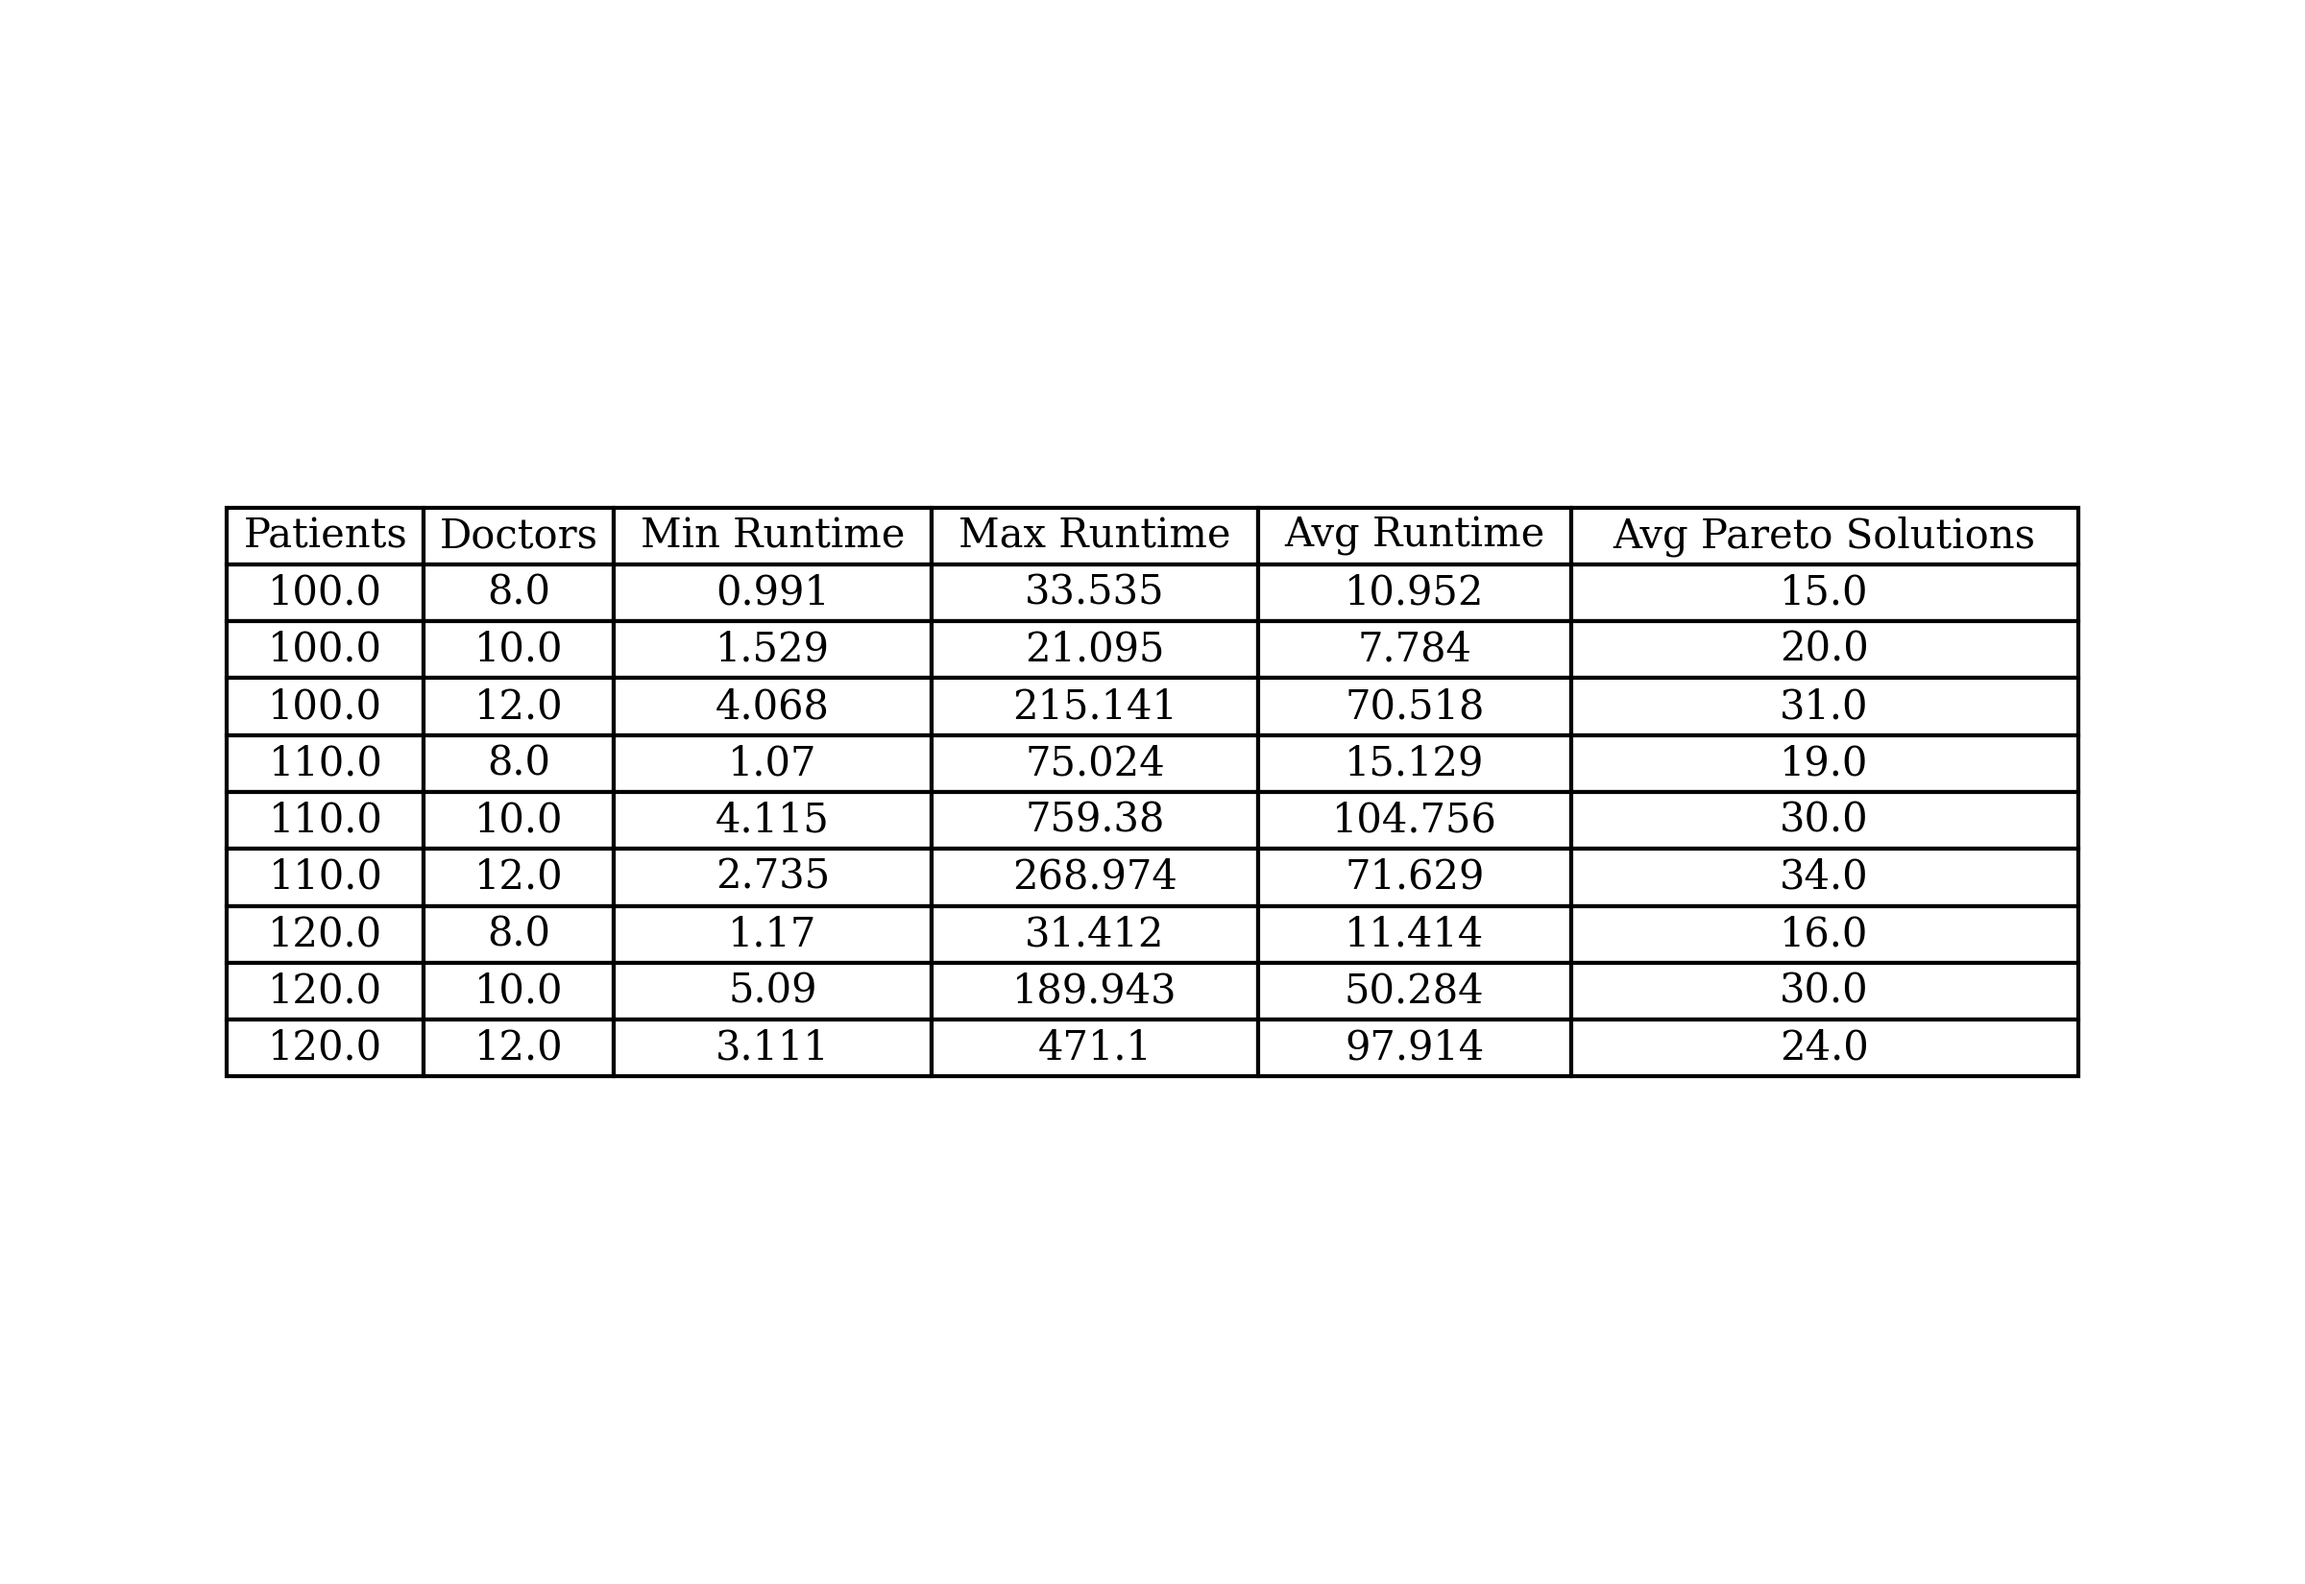
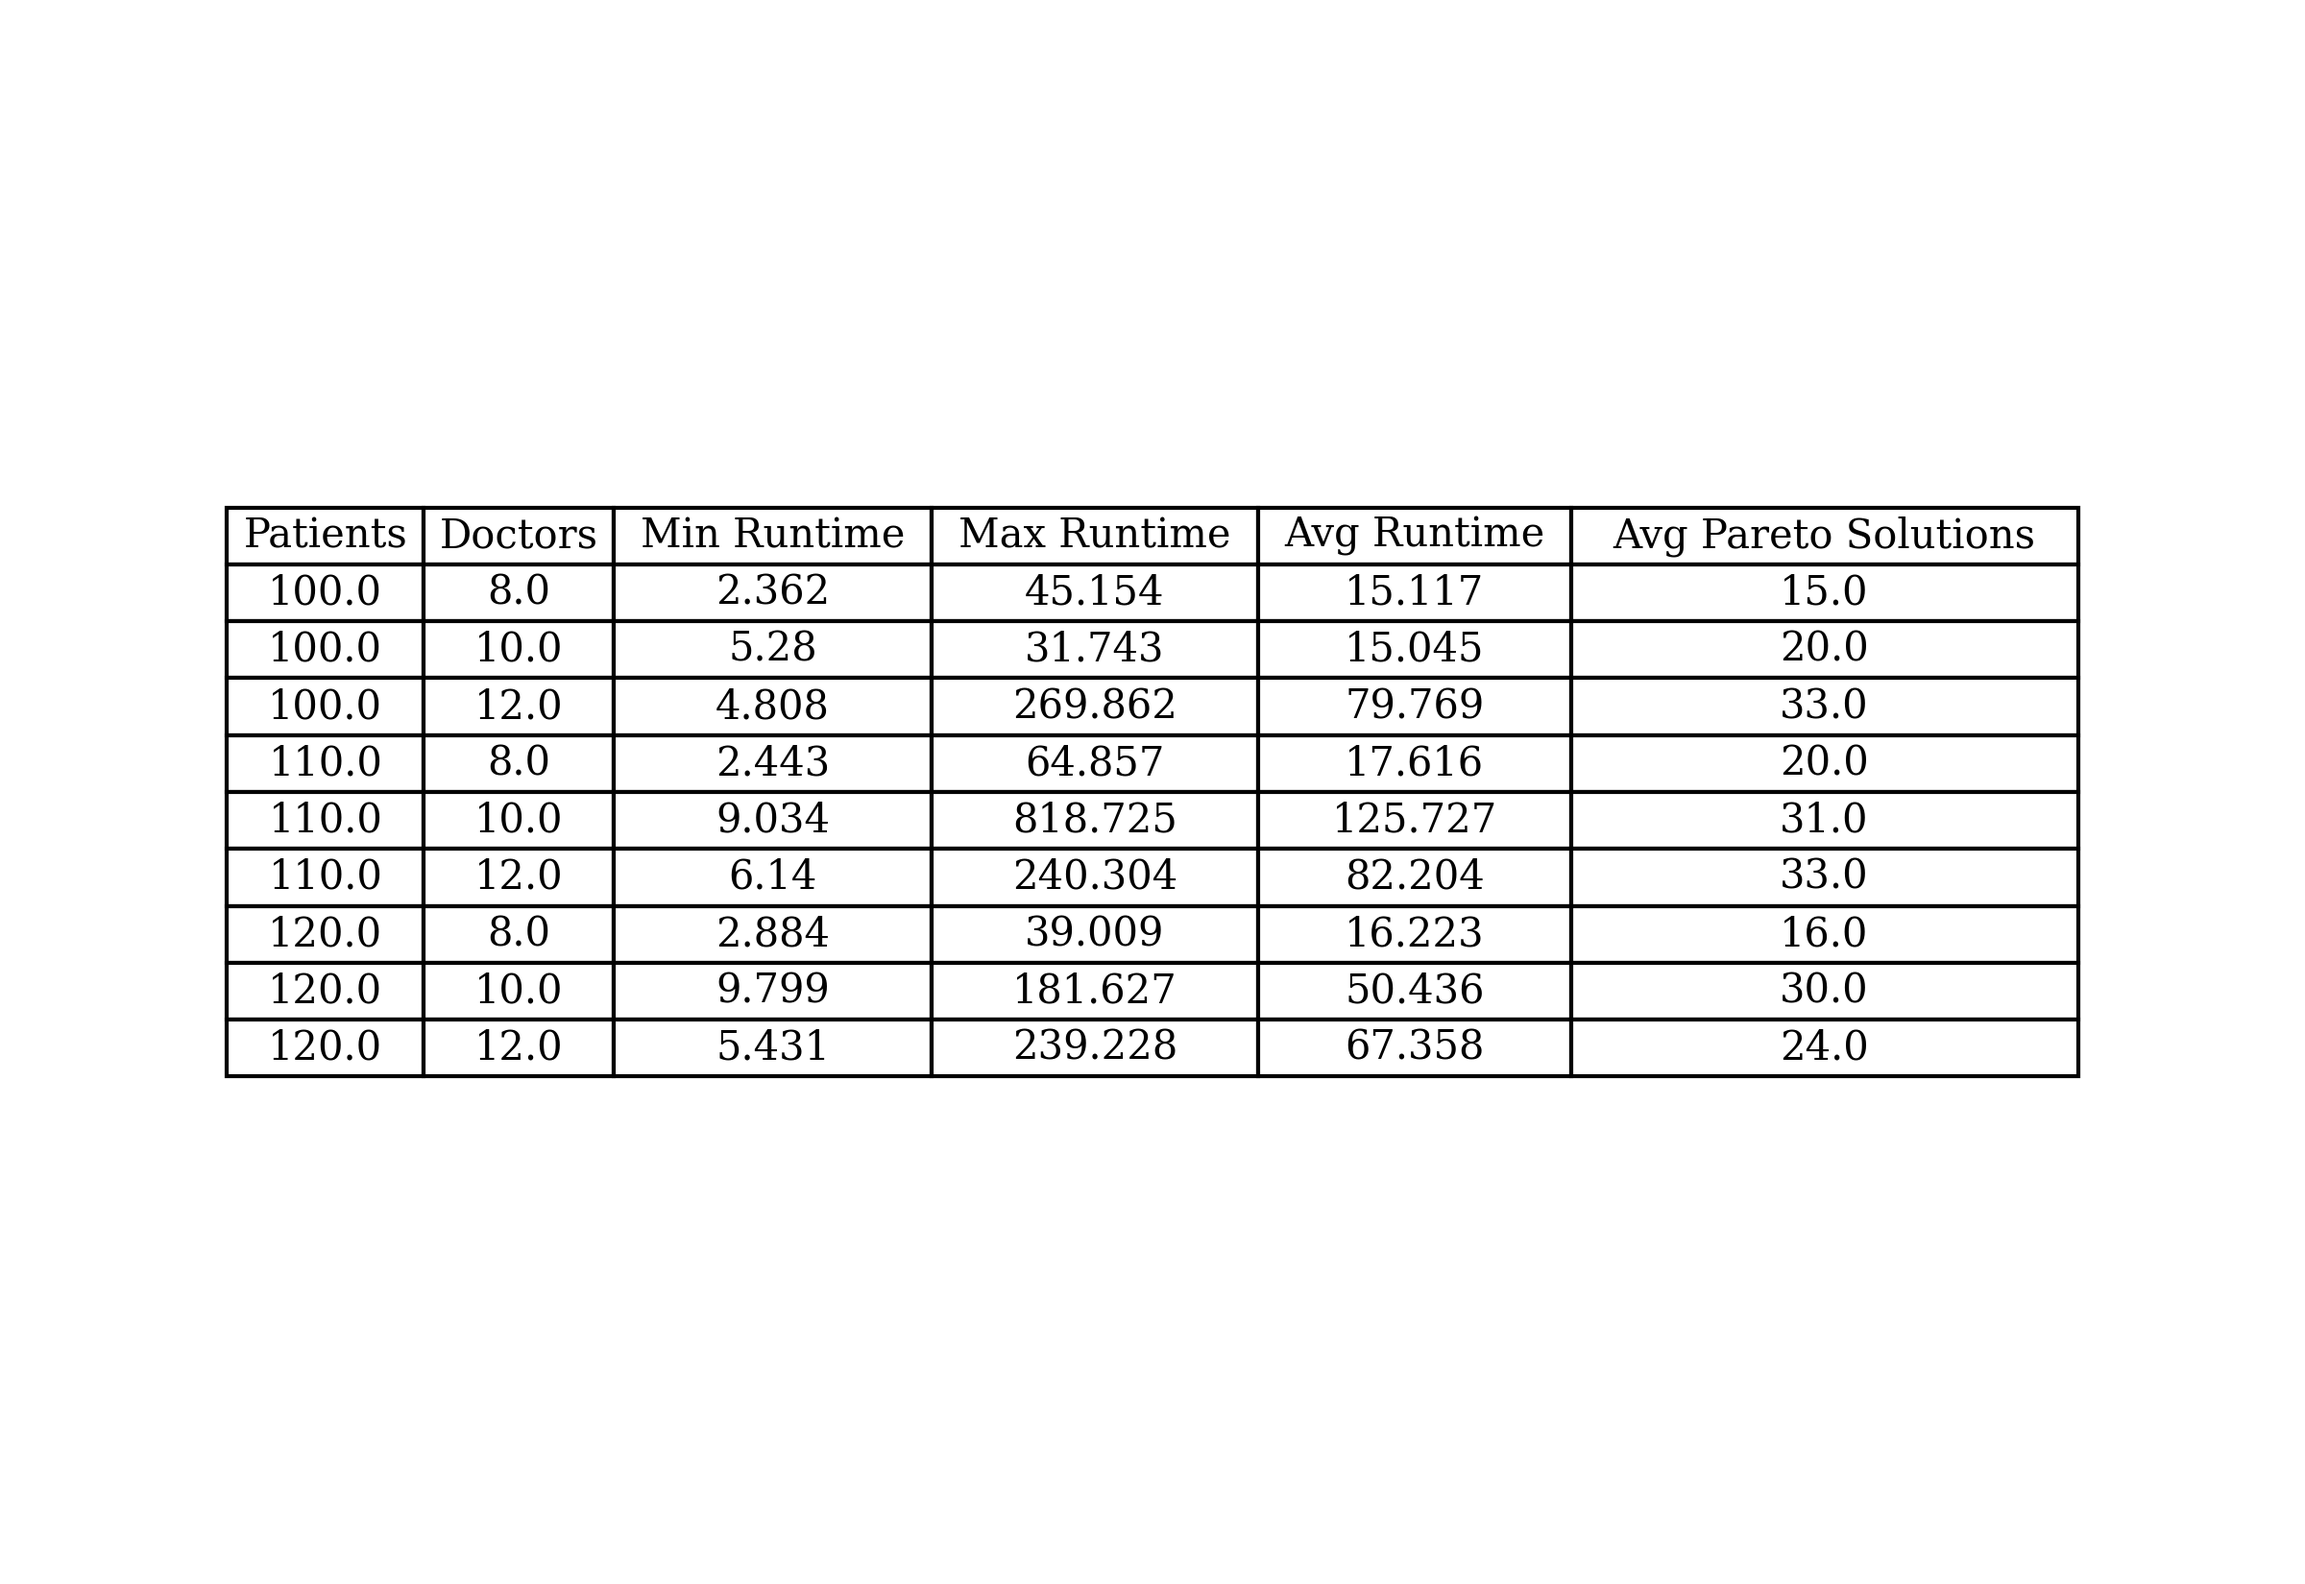
Add column gen for fragment time graphs and update epsilon runs image outputs to use all models

diff --git a/src/column_generation_test.py b/src/column_generation_test.py
@@ -4,11 +4,14 @@ import time
 from utils.data_instance import DataInstance
 import matplotlib.pyplot as plt
 import pickle
+import os
 
-i_s = [10, 20, 30,40,50,60,60,70,80,90,100]
+# i_s = [10, 20, 30,40,50,60,70,80,90,100,110,120,130,140,150,160,170,180,190,200]
+i_s = [10, 20, 30,40,50,60, 60,70,80]
 js = [10]
 ts = [20]
 ks = [2]
+# ns = [2,3]
 ns = [2,3,4,5]
 
 def test_fragments(i_s, j, t, k, ns, seed = 11):
@@ -37,11 +40,9 @@ def test_fragments(i_s, j, t, k, ns, seed = 11):
     return times_for_is
 
 
-times_for_is = test_fragments(i_s, js[0], ts[0], ks[0] ,ns)
-with open(f"times_for_is_{i_s=},_{js=},{ts},{ks=},{ns=}", "wb") as f:
-    data = pickle.dump(times_for_is, f)
 
-def plot_fragment_generation_times(times_for_is: dict[int, list[float]], i_s: list[int]):
+
+def plot_fragment_generation_times(times_for_is: dict[int, list[float]], i_s: list[int], log= False, bad_i_s = False):
     """
     Plots fragment generation time (seconds) vs number of patients (i_s)
     for each n (number of fragments).
@@ -56,14 +57,30 @@ def plot_fragment_generation_times(times_for_is: dict[int, list[float]], i_s: li
     plt.figure(figsize=(8, 6))
 
     for n, times in times_for_is.items():
-        plt.plot(i_s, times, marker='o', label=f'n = {n}', linewidth=2)
+        if bad_i_s:
+            plt.plot([i for (index, i) in enumerate(i_s) if index != 5], [t for (index, t) in enumerate(times) if index != 5], marker='o', label=f'n = {n}', linewidth=2)
+        else:
+            plt.plot(i_s, times, marker='o', label=f'n = {n}', linewidth=2)
 
-    plt.title("Fragment Generation Time vs Problem Size")
-    plt.xlabel("Number of Patients (i)")
+    plt.title("Fragment Generation Time vs Number of patients")
+    plt.xlabel("Number of patients")
     plt.ylabel("Generation Time (seconds)")
     plt.legend(title="Number of Fragments (n)")
+    if log:
+        plt.yscale("log")
     plt.grid(True, linestyle='--', alpha=0.6)
     plt.tight_layout()
+    plt.savefig(f"outputs/graphs/fragment_gen_times_plot_ns{ns[-1]}_is{i_s[-1]}_{log=}.png")
     plt.show()
 
-plot_fragment_generation_times(times_for_is, i_s)
+filename = f"times_for_is_{i_s=},_{js=},{ts},{ks=},{ns=}"
+if not os.path.exists(filename):
+    times_for_is = test_fragments(i_s, js[0], ts[0], ks[0] ,ns)
+    with open(filename, "wb") as f:
+        data = pickle.dump(times_for_is, f)
+
+with open(filename, "rb") as f:
+    times = pickle.load(f)
+
+plot_fragment_generation_times(times, i_s, log = False, bad_i_s=True)
+plot_fragment_generation_times(times, i_s, log = True, bad_i_s=True)

diff --git a/src/main.py b/src/main.py
@@ -137,7 +137,7 @@ def make_epsilon_summary_table(pareto_table: int, model):
         
                 epsilon_runs(model, epsilon_problem_size, seeds, frag_length=max_frag_length)
 
-                summary = summarize_pareto_slack_results(seeds, i, j, 3, 20)
+                summary = summarize_pareto_slack_results(seeds, i, j, 3, 20, model)
                 summary_rows.append(summary)
         
         
@@ -226,11 +226,11 @@ if __name__ == '__main__':
         
         plot_model_files(model_files, 2)
 
-    pareto_table = int(input("Do you want to save Epsilon Model table output for 10 instances on model size: 1: small, 2: medium, 3: large, 4: None     "))
-    make_epsilon_summary_table(pareto_table,  model)
-    # for size in [1,2,3]:
-    #     for model in [DOCTOR_AVAILABLE, FEASIBILITY, COMPATIBLE_TIMES]:
-    #         make_epsilon_summary_table(size, model)
+    # pareto_table = int(input("Do you want to save Epsilon Model table output for 10 instances on model size: 1: small, 2: medium, 3: large, 4: None     "))
+    # make_epsilon_summary_table(pareto_table,  model)
+    for size in [1,2,3]:
+        for model in [DOCTOR_AVAILABLE, FEASIBILITY, COMPATIBLE_TIMES]:
+            make_epsilon_summary_table(size, model)
 
     
                 

diff --git a/src/utils/print_model_results.py b/src/utils/print_model_results.py
@@ -155,14 +155,22 @@ def summarize_results(all_results, model_name):
 
     print("\nEND OF MODEL SUMMARY")
     print("="*100 + "\n")
+from pareto.epsilon import FEASIBILITY, COMPATIBLE_TIMES, DOCTOR_AVAILABLE, FRAGMENT_COLUMN_GEN, SUBSET_COLUMN_GEN
 
-def summarize_pareto_slack_results(seeds, patients, doctors, diseases, time_periods):
+def summarize_pareto_slack_results(seeds, patients, doctors, diseases, time_periods, model):
     path = "outputs/results"
     runtimes = []
     pareto_counts = []
 
+    model_names = {
+        FEASIBILITY: "feasibility",
+        COMPATIBLE_TIMES: "compatible_times",
+        DOCTOR_AVAILABLE: "doctor_available",
+        SUBSET_COLUMN_GEN: "subset_column_gen",
+        FRAGMENT_COLUMN_GEN: "fragment_column_gen"        
+    }
     for seed in seeds:
-        filename = f"{path}/pareto_doctor_available_seed{seed}_I{patients}_J{doctors}_K{diseases}_T{time_periods}.pkl"
+        filename = f"{path}/pareto_{model_names[model]}_seed{seed}_I{patients}_J{doctors}_K{diseases}_T{time_periods}.pkl"
         if os.path.exists(filename):
             with open(filename, "rb") as f:
                 data = pickle.load(f)
